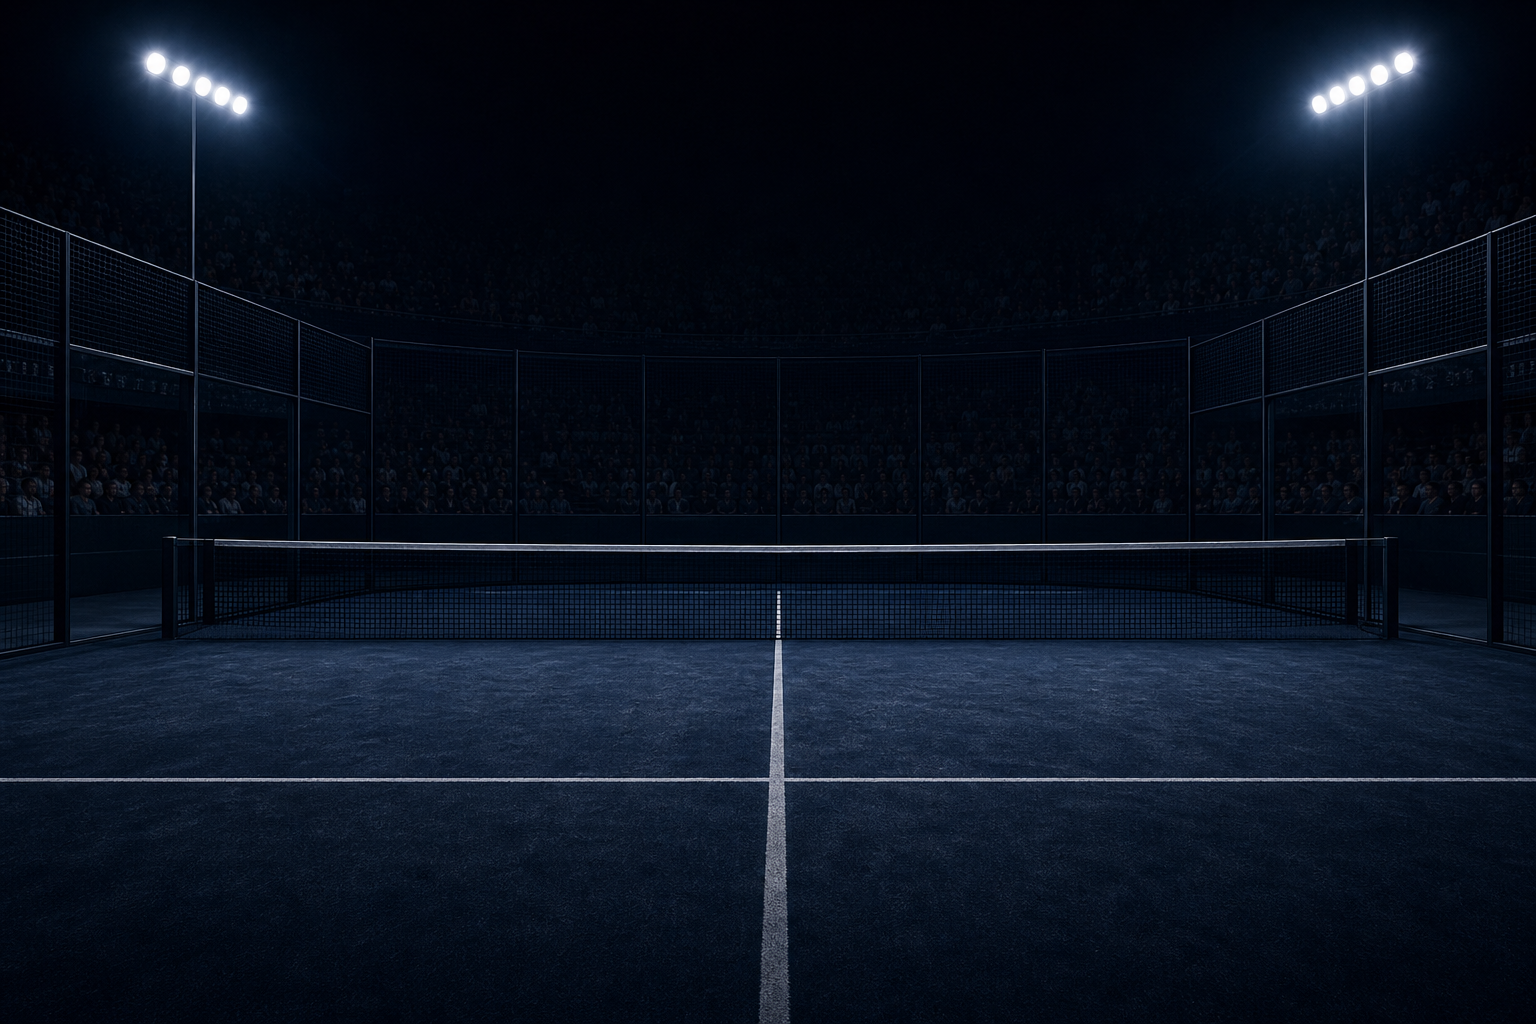
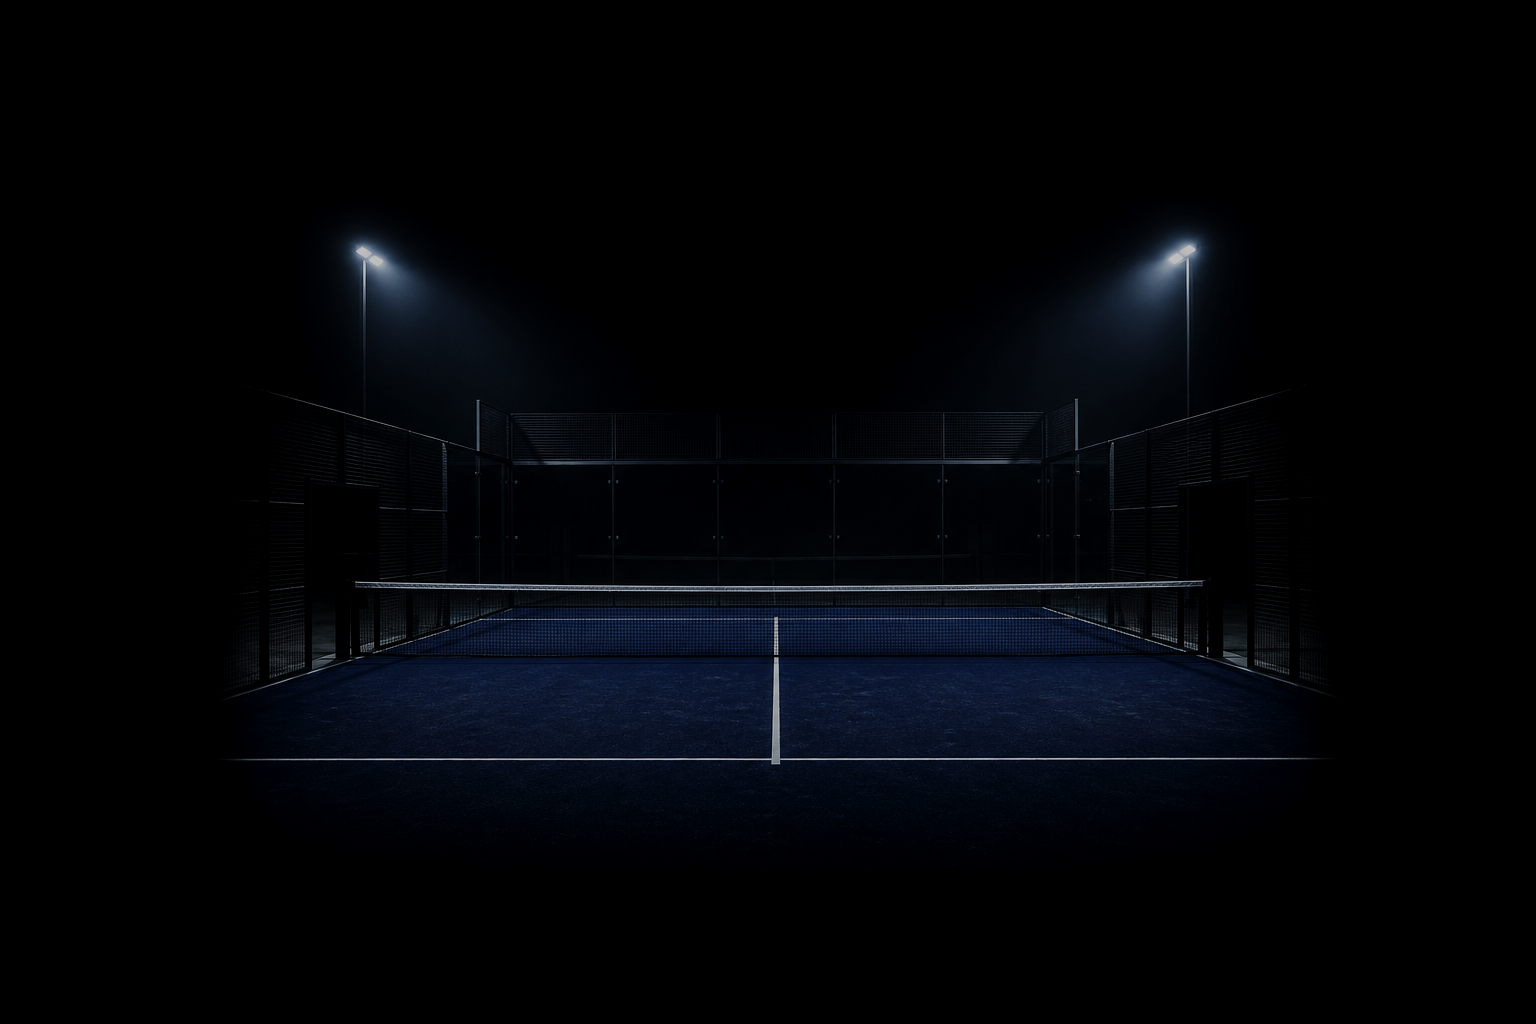
Intégrer le fond terrain padel de nuit sur Hub et entrées Live.

diff --git a/frontend/src/manager/LiveNightCourtBackground.tsx b/frontend/src/manager/LiveNightCourtBackground.tsx
@@ -1,9 +1,9 @@
-/** Arrière-plan photo terrain de nuit (page d'entrée Live uniquement). */
+/** Arrière-plan photo terrain de nuit (Hub + entrées Engine/Live). */
 export function LiveNightCourtBackground() {
   return (
     <div className="pointer-events-none fixed inset-0 -z-10 overflow-hidden bg-black">
       <img
-        src="/images/live-court-night.png"
+        src="/images/live-court-night.png?v=2"
         alt=""
         decoding="async"
         draggable={false}